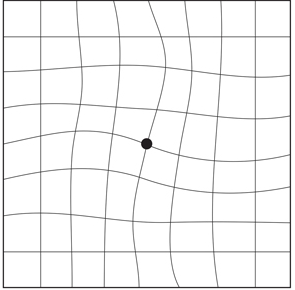
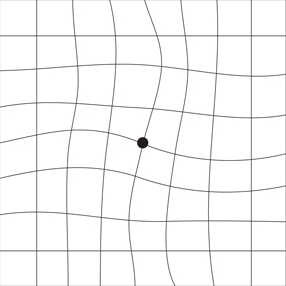
Hago cambios en Laboratorio e incorporo el trabajo que hice durante el último curso integrando el front y el back

Changed region(s): [[0.0, 0.0, 1.0, 1.0], [0.1678, 0.2238, 0.1958, 0.2517], [0.0559, 0.2238, 0.0839, 0.2517]]

diff --git a/js/tester.js b/js/tester.js
@@ -432,15 +432,19 @@ function mostrarOpticas(opticas) {
     distancia.textContent = formatoDistancia(optica.distancia);
     li.append(distancia);
 
-    const enlace = document.createElement("button");
-    enlace.textContent = "Ver en el mapa";
-    enlace.className = "optica-mapa";
-    enlace.setAttribute("aria-label", "Ver " + optica.nombre + " en el mapa");
-    li.append(enlace);
+    const botonMapa = document.createElement("button");
+    botonMapa.type = "button";
+    botonMapa.textContent = "Ver en el mapa";
+    botonMapa.className = "optica-mapa";
+    botonMapa.setAttribute(
+      "aria-label",
+      "Ver " + optica.nombre + " en el mapa",
+    );
+    li.append(botonMapa);
 
     listaOpticas.append(li);
 
-    enlace.addEventListener("click", function () {
+    botonMapa.addEventListener("click", function () {
       verEnMapa(indice);
     });
   });

diff --git a/index.html b/index.html
@@ -169,7 +169,7 @@
           </article>
 
           <article>
-            <img src="assets/img/tester.jpg" alt="Tester optométrico" />
+            <img src="assets/img/tester.png" alt="Tester optométrico" />
             <h3>Tester optométrico</h3>
             <a href="tester.html">Probar</a>
           </article>
@@ -184,9 +184,12 @@
           </article>
 
           <article>
-            <img src="assets/img/peliculas.jpeg" alt="Datos de películas" />
-            <h3>Datos de películas</h3>
-            <p>En construcción</p>
+            <img
+              src="assets/img/informatica.jpeg"
+              alt="Tienda de informática"
+            />
+            <h3>Tienda de informática</h3>
+            <p>Ver casos de estudio</p>
           </article>
         </div>
       </section>

diff --git a/css/tester.css b/css/tester.css
@@ -460,6 +460,15 @@ h1 {
   font-weight: 700;
 }
 
+.leaflet-container {
+  font-family: "Space Grotesk", sans-serif;
+}
+.leaflet-container .popup-ruta {
+  display: block;
+  margin-top: 6px;
+  color: #1d1d1d;
+  font-weight: 700;
+}
 /* Lista */
 .lista-opticas {
   list-style: none;
